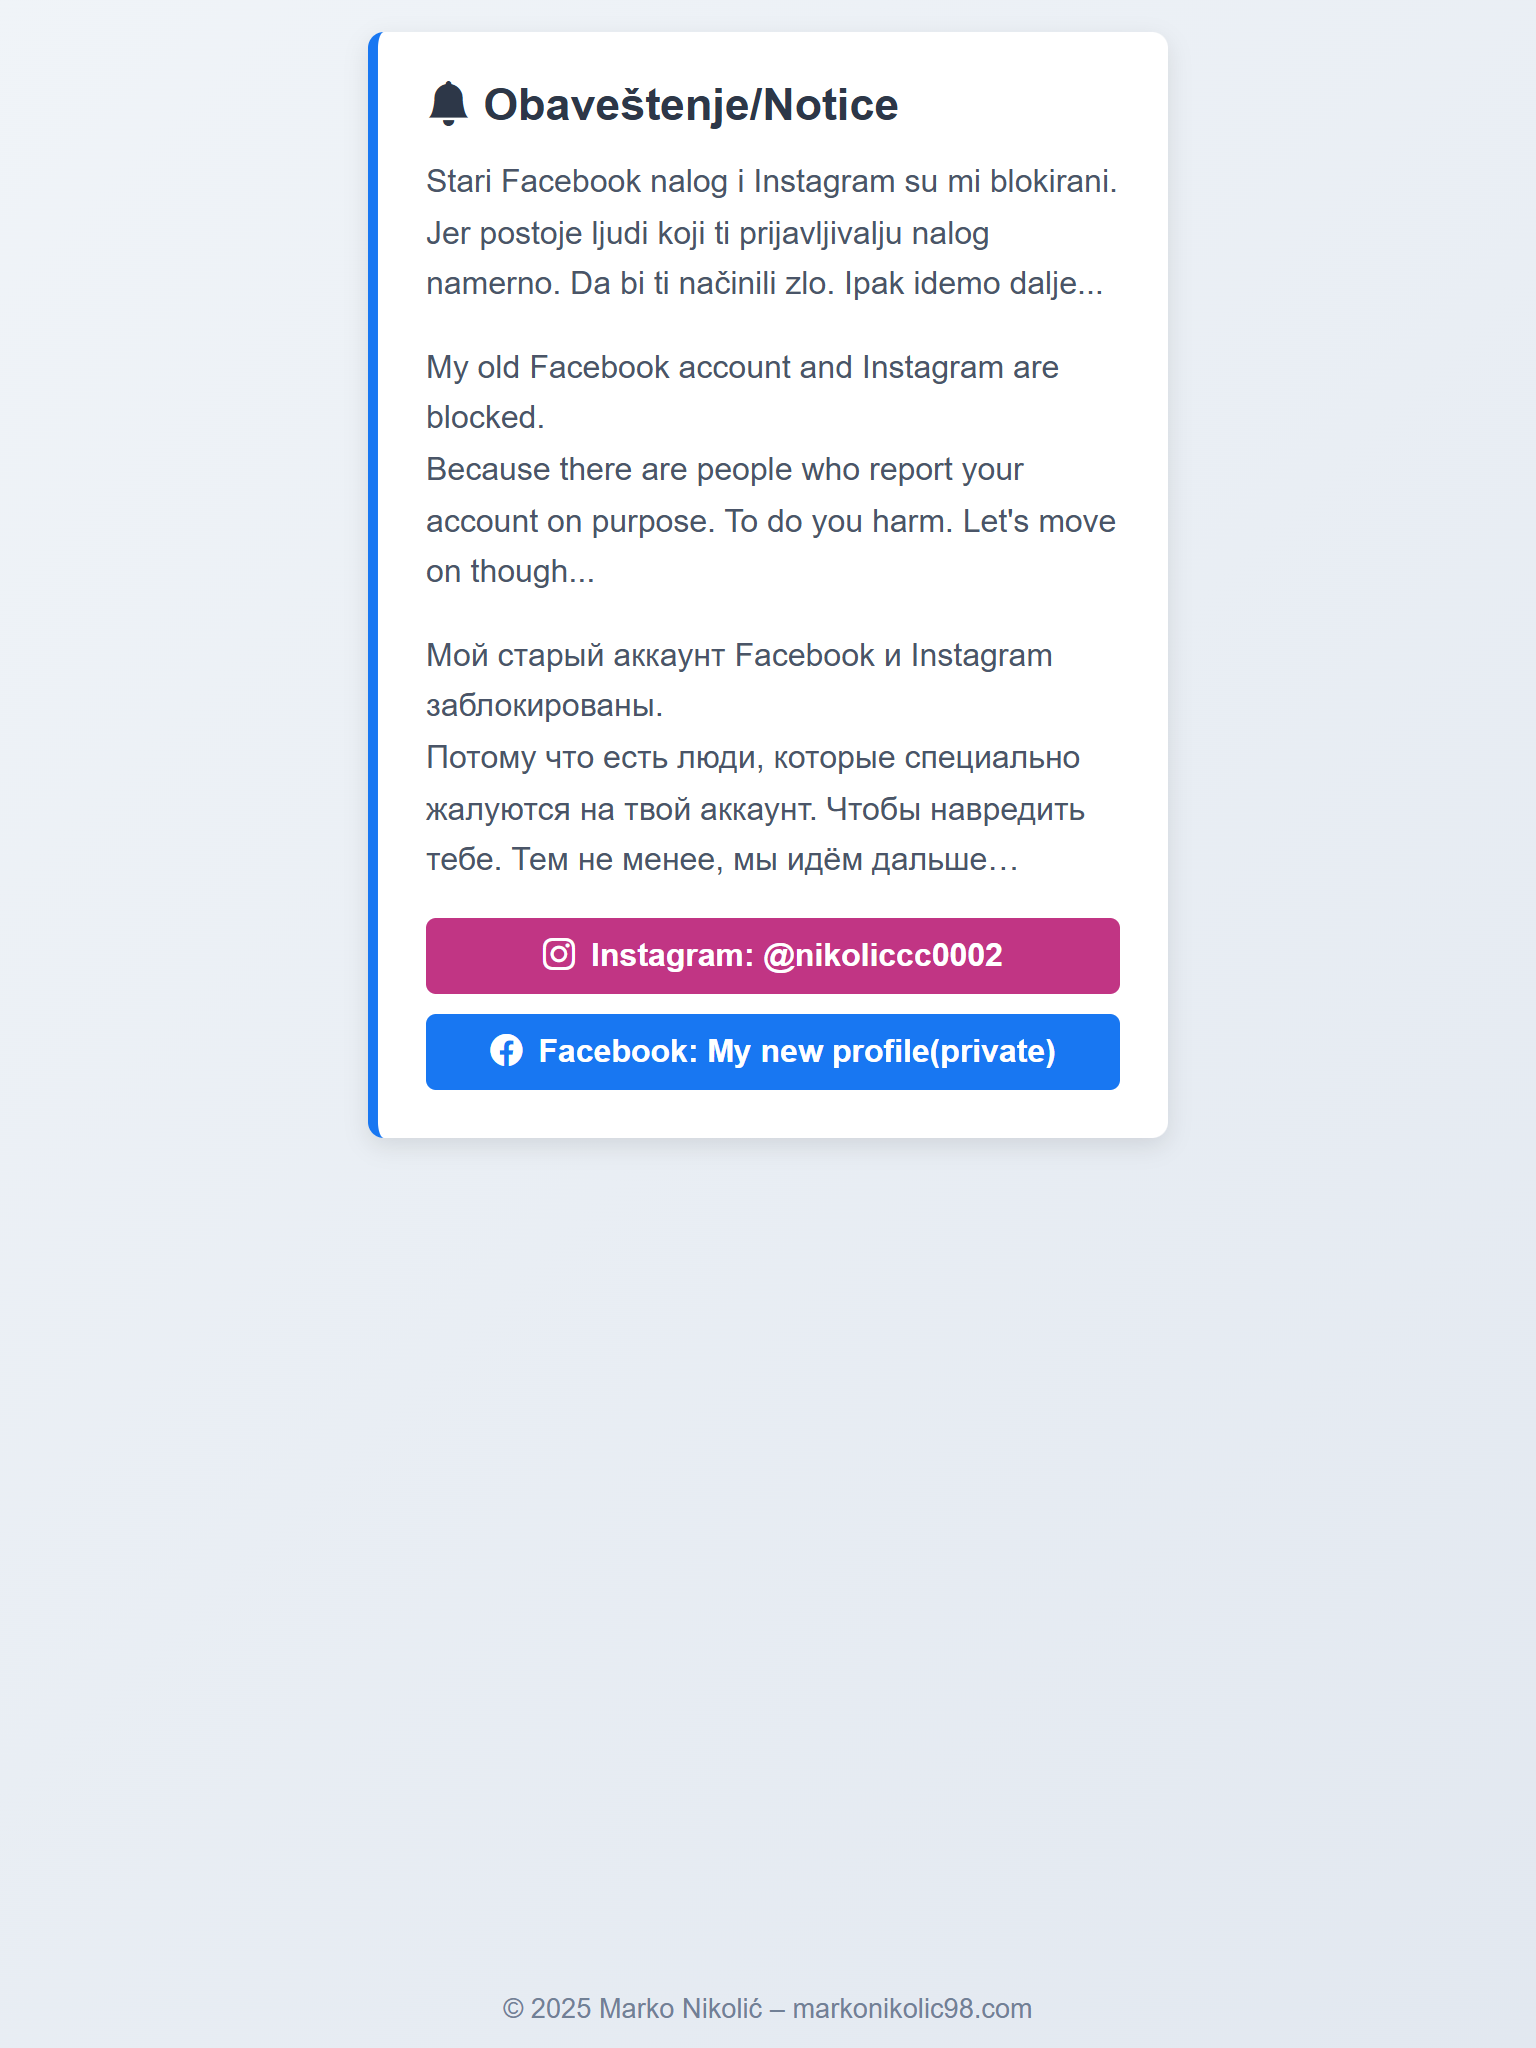
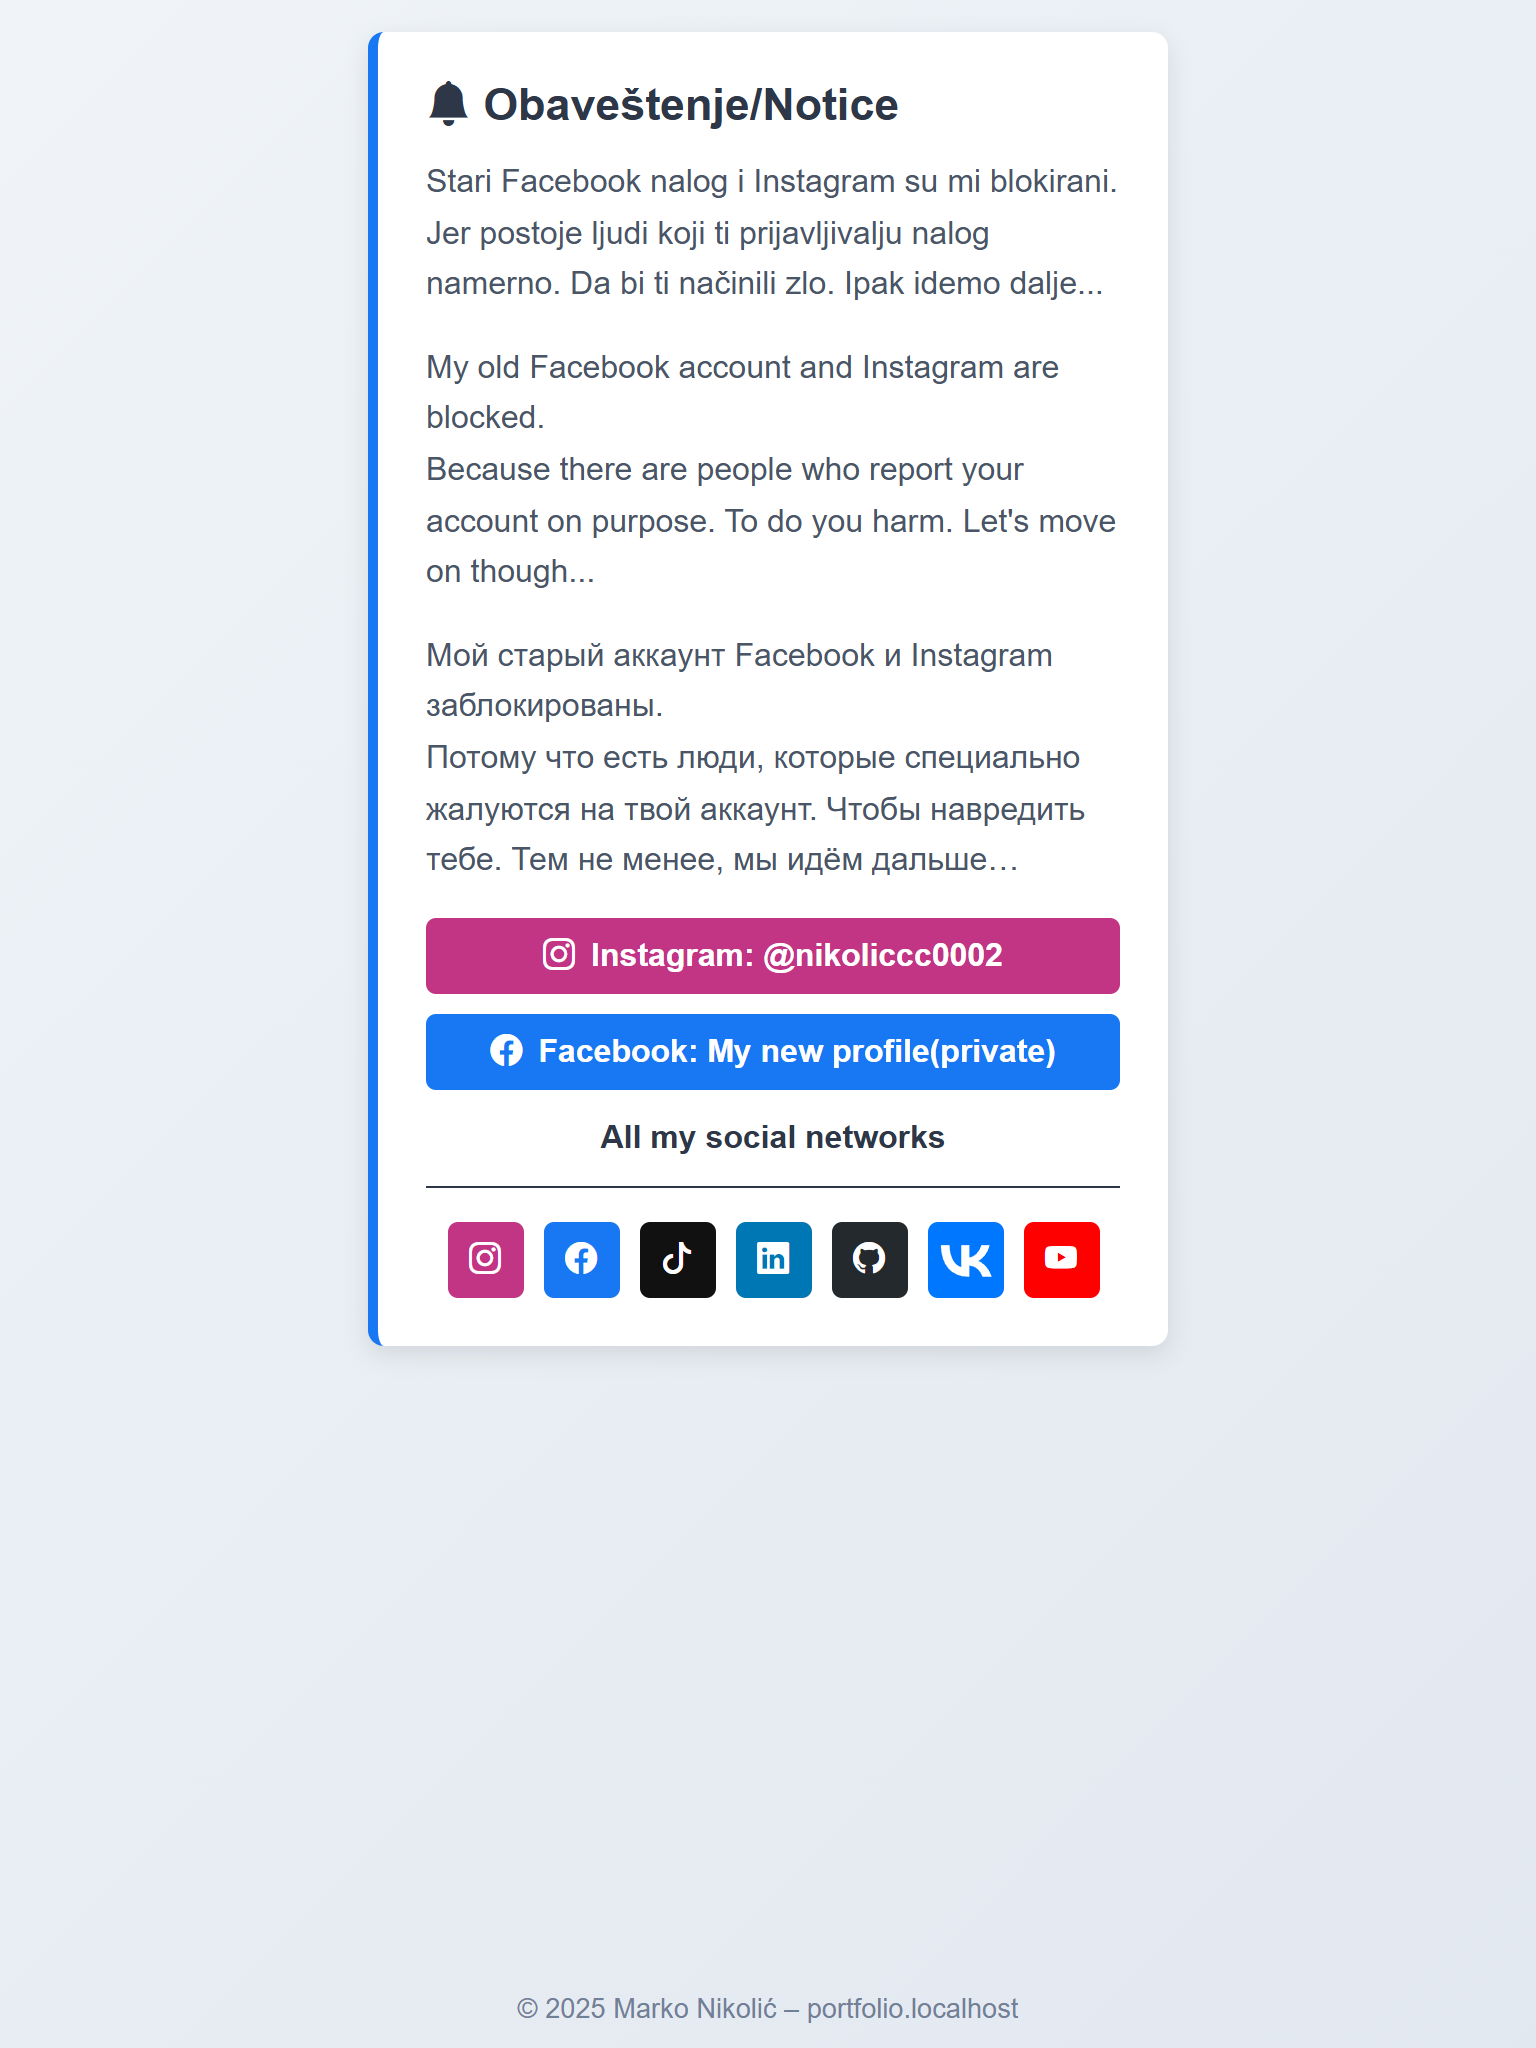
aef

Changed region(s): [[0.2188, 0.5312, 0.7812, 0.6562], [0.3438, 0.9688, 0.6562, 1.0]]

diff --git a/app/index.php b/app/index.php
@@ -745,6 +745,10 @@ class portfolio_marko
 
             }
          
+            $data = [
+                
+            ];
+
             header("Content-type: text/html");
            
             ob_start(function ($b) {
@@ -784,12 +788,14 @@ class portfolio_marko
                 <meta name="twitter:description"
                     content="Stari Facebook nalog i Instagram su blokirani. Posetite moj novi Instagram i Facebook nalog za najnovije objave.">
                 <meta name="twitter:image" content="<?php echo "https://$_SERVER[HTTP_HOST]/$h&og_social=og"; ?>">
-                <style>
-                @import url(https://cdn.eronelit.com/node_modules/bootstrap-icons/font/bootstrap-icons.css);
+                <style type="text/css">
+       @import url(https://cdn.eronelit.com/node_modules/bootstrap-icons/font/bootstrap-icons.css);
 
 * {
     margin: 0px;
     padding: 0px;
+    user-drag: none;
+    -webkit-user-drag: none
 }
 
 html,
@@ -962,7 +968,9 @@ footer {
     flex-direction: row;
     gap: 10px;
     margin-top: 8px;
-    justify-content: center;
+    -webkit-box-pack: center;
+        -ms-flex-pack: center;
+            justify-content: center;
 }
 
 .all a.instagram {
@@ -997,6 +1005,7 @@ h4 {
     margin-bottom: 17px;
 }
 
+
                 </style>
             </head>
 
@@ -1030,7 +1039,7 @@ h4 {
                     </div>
                     <h4>All my social networks</h4>
                     <div class="all">
-                        <a href="https://instagram.com/nikoliccc0002" target="_blank" rel="noopener noreferrer" class="instagram">
+                        <a aria-label="Instagram" href="https://instagram.com/nikoliccc0002" target="_blank" rel="noopener noreferrer" class="instagram">
                             <i class="bi bi-instagram" aria-hidden="true"></i>
                         </a>
                         <a href="https://www.facebook.com/profile.php?id=61576909296856a" target="_blank" rel="noopener noreferrer"
